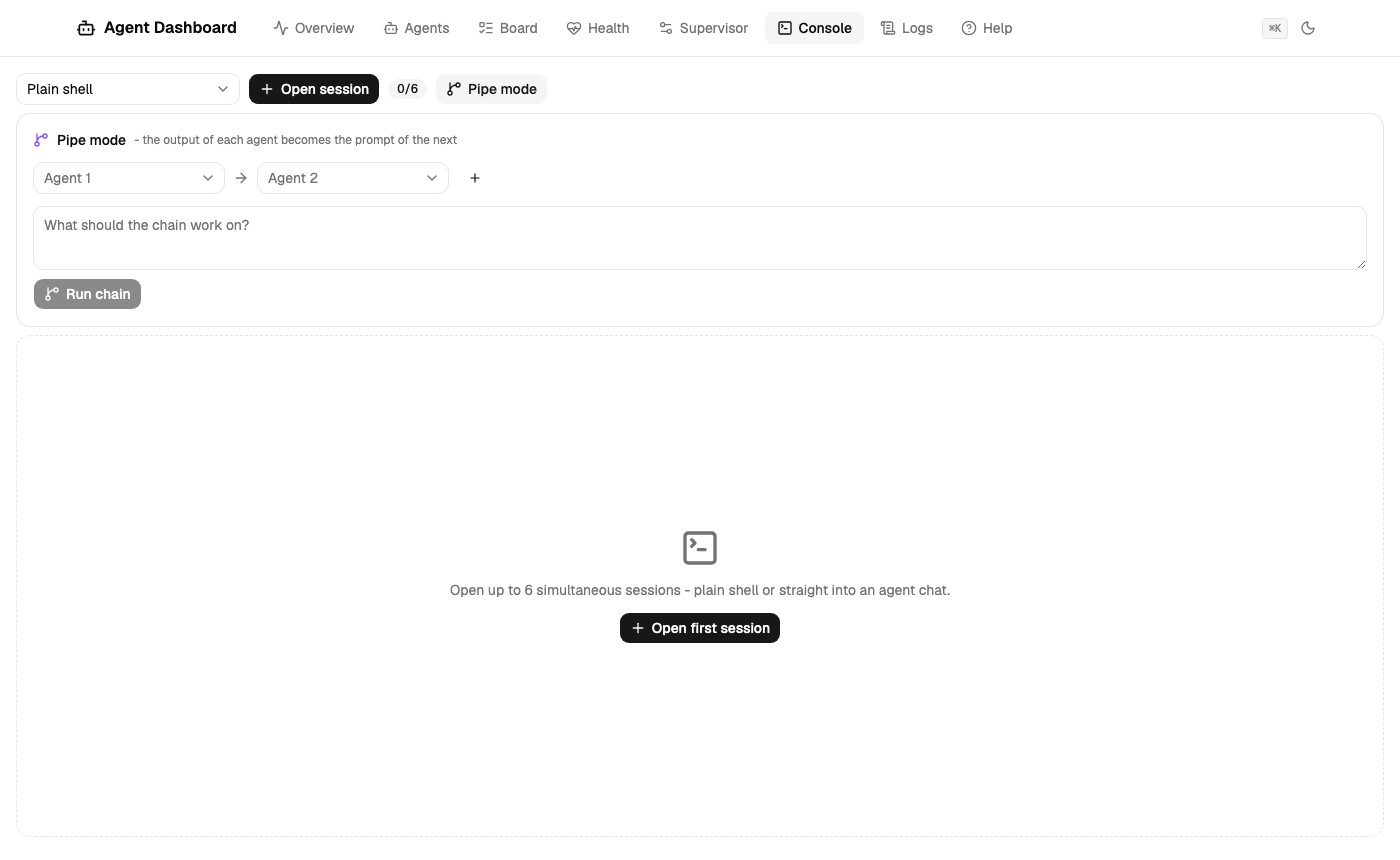
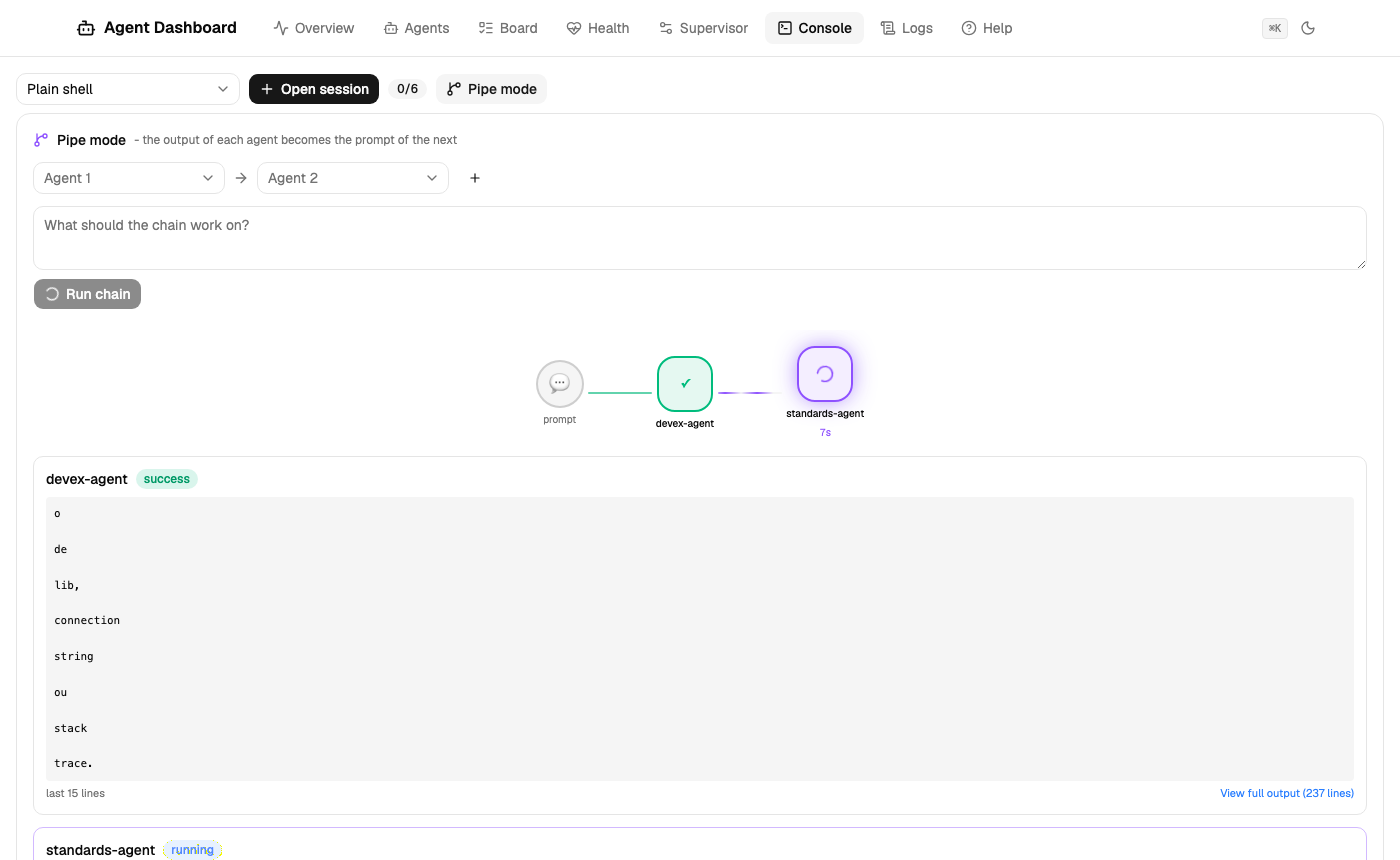
docs: live pipe screenshot, platform section format, pipe ?job= deep-link

diff --git a/frontend/src/components/PipeMode.tsx b/frontend/src/components/PipeMode.tsx
@@ -39,7 +39,7 @@ export default function PipeMode({ agents: agentsProp }: { agents: string[] }) {
 
   // resume a job that kept running server-side across refresh/navigation
   useEffect(() => {
-    const saved = localStorage.getItem("pipe-job")
+    const saved = new URLSearchParams(location.search).get("job") || localStorage.getItem("pipe-job")
     if (saved) { setJobStatus("running"); poll(saved) }
     return () => { if (timer.current) clearInterval(timer.current) }
     // eslint-disable-next-line react-hooks/exhaustive-deps

diff --git a/README.md b/README.md
@@ -17,7 +17,11 @@ If you run scheduled AI agents on your machine, their state is scattered across 
 - 🔗 **Pipe mode** - chain agents: the output of one becomes the prompt of the next, with an animated flow view, live streaming and visible hand-offs. Jobs survive restarts.
 - 📅 **A real scheduler view** - if your agents run on plain cron (launchd, crontab), the Supervisor gives them what cron never had: plain-English schedules, next-run countdowns, failure pinning, one-click runs, inline cron editing and enable/disable - an organized control plane for even the simplest cron setup.
 
-**Platform support:** macOS and Linux fully supported (validated on Ubuntu 24.04); Windows via WSL2 (terminals and pipe use Unix PTYs).
+## Platform support
+
+- **macOS** - fully supported.
+- **Linux** - fully supported (validated end-to-end on Ubuntu 24.04 / EC2).
+- **Windows** - via WSL2 (the terminals and pipe mode use Unix PTYs).
 
 ## Feature tour
 
